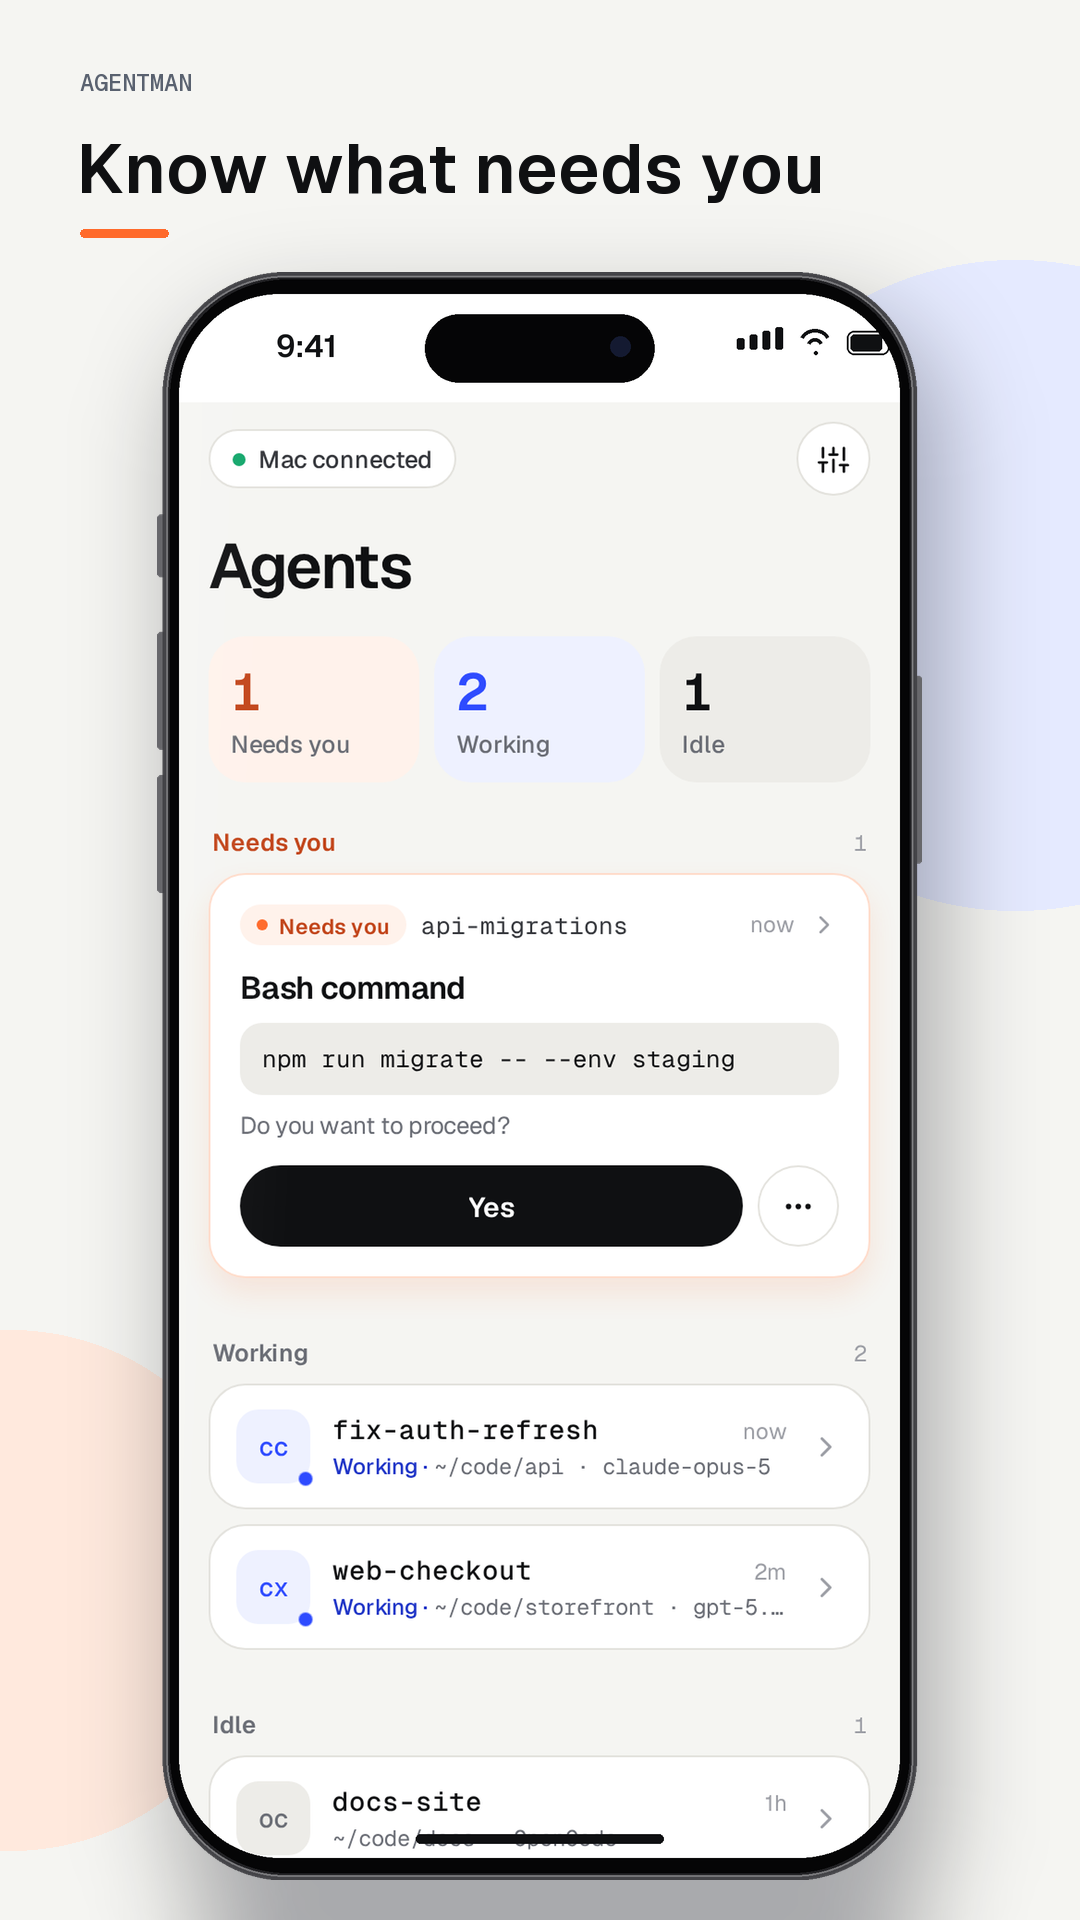
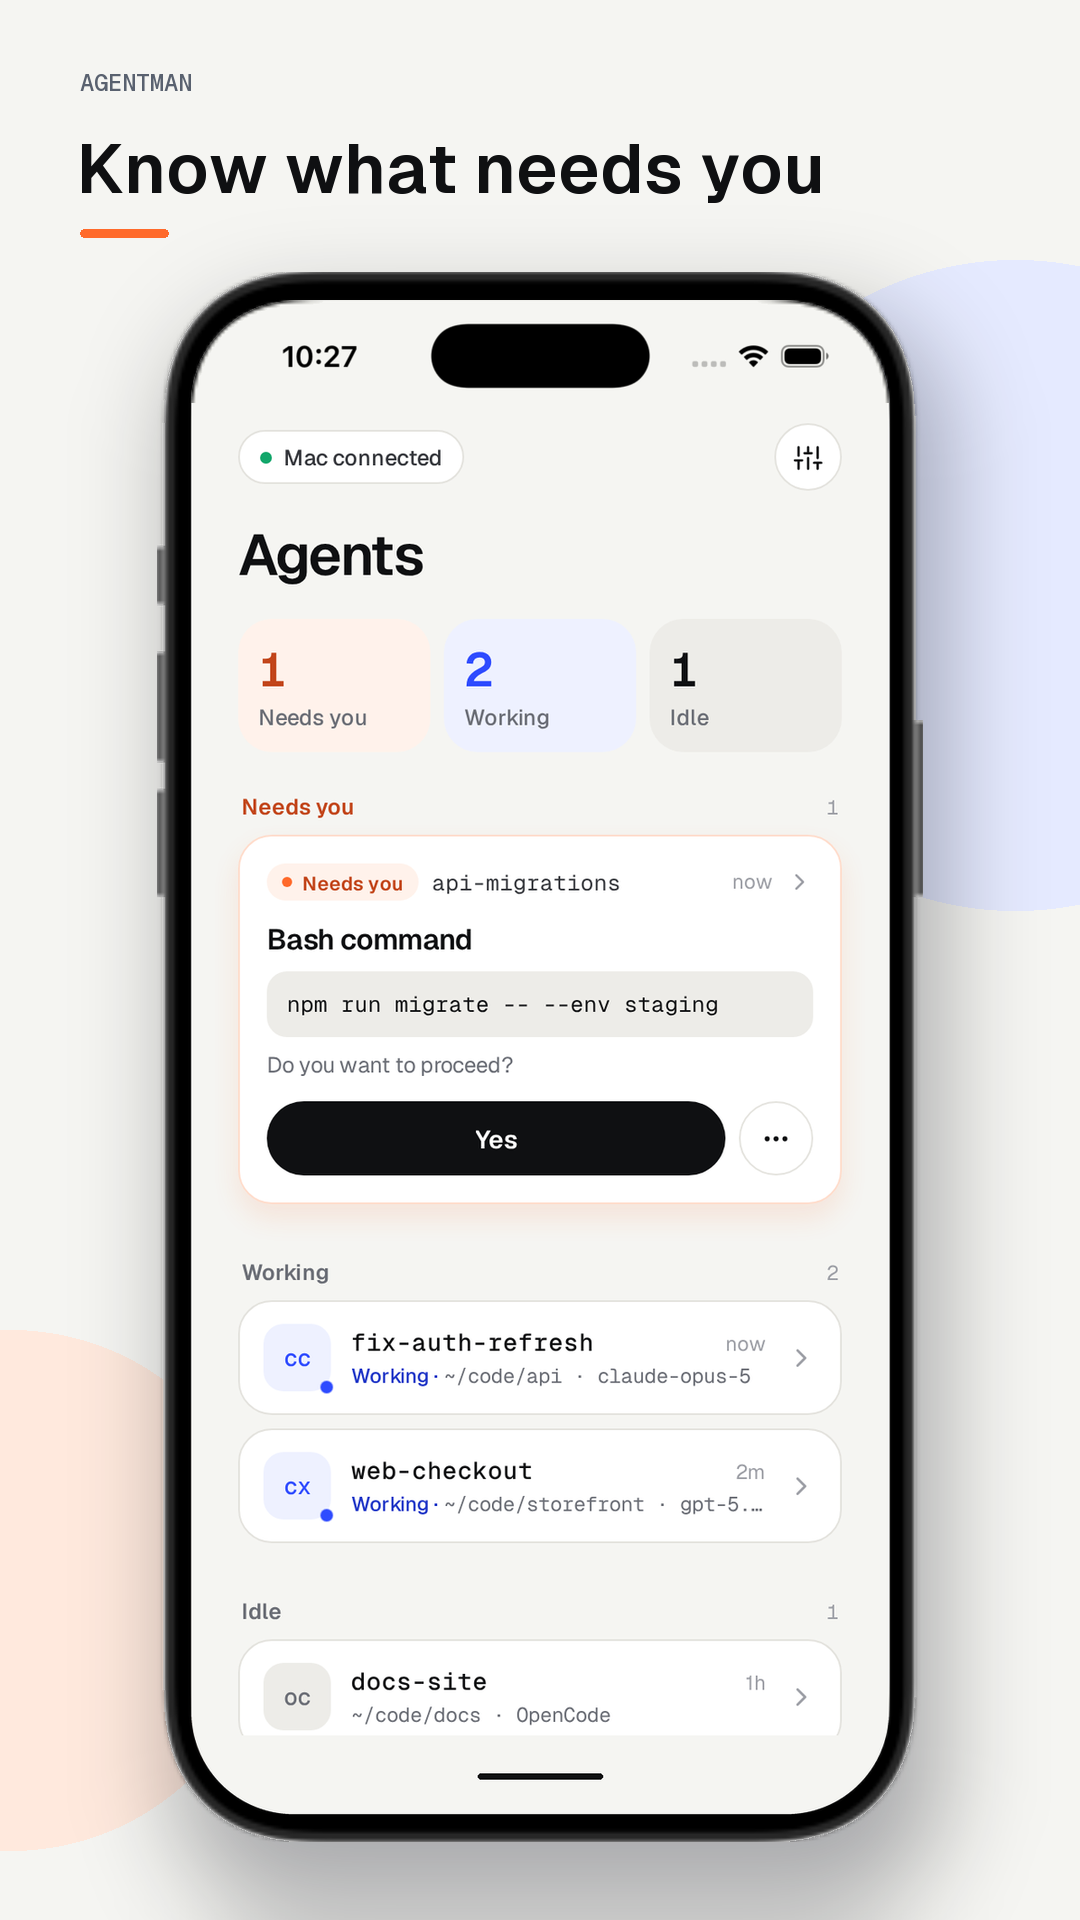
Use captured device frame for Play listing mockups

diff --git a/play-listing/render.py b/play-listing/render.py
@@ -1,19 +1,22 @@
 #!/usr/bin/env python3
-"""Render Play Store graphics using the landing page's titanium phone geometry."""
+"""Render Play Store graphics using the captured Device Hub phone frame."""
 
 from __future__ import annotations
 
 import argparse
 from pathlib import Path
 
-from PIL import Image, ImageDraw, ImageFilter, ImageFont, ImageOps
+from PIL import Image, ImageChops, ImageDraw, ImageFilter, ImageFont, ImageOps
 
 
 ROOT = Path(__file__).resolve().parent.parent
 OUT = Path(__file__).resolve().parent / "assets"
-S = 3  # Draw the 417 x 876 point landing-page device at 3x, then downsample.
-PHONE = (417, 876)
-SCREEN = (12, 12, 393, 852)
+FRAME_CAPTURE = Path(__file__).resolve().parent / "sources/devicehub-pairing.png"
+# Display boundaries measured from the captured iPhone frame, in source pixels.
+DISPLAY = (38, 32, 810, 1707)
+DISPLAY_RADIUS = 113
+STATUS_BOTTOM = 145
+CONTENT_BOTTOM = 1620
 FONT = ROOT / "mobile/node_modules/@expo-google-fonts/geist"
 MONO = ROOT / "mobile/node_modules/@expo-google-fonts/geist-mono"
 INK = "#0F1012"
@@ -27,68 +30,47 @@ def font(size: int, weight: str = "600SemiBold", mono: bool = False) -> ImageFon
     return ImageFont.truetype(family / weight / f"{stem}_{weight}.ttf", size)
 
 
-def rounded_mask(size: tuple[int, int], radius: int) -> Image.Image:
-    mask = Image.new("L", size, 0)
-    ImageDraw.Draw(mask).rounded_rectangle((0, 0, size[0] - 1, size[1] - 1), radius, fill=255)
-    return mask
-
-
-def rect(box: tuple[float, float, float, float]) -> tuple[int, int, int, int]:
-    return tuple(round(value * S) for value in box)  # type: ignore[return-value]
-
-
-def status_bar(screen: Image.Image) -> None:
-    draw = ImageDraw.Draw(screen)
-    draw.text((53 * S, 17 * S), "9:41", font=font(17 * S), fill=INK)
-    draw.rounded_rectangle(rect((134, 11, 259, 48)), radius=19 * S, fill="#050506")
-    draw.ellipse(rect((235, 23, 246, 34)), fill="#141A31")
-    for x, height in ((304, 6), (311, 8), (318, 10), (325, 12)):
-        draw.rounded_rectangle(rect((x, 30 - height, x + 4, 30)), radius=S, fill=INK)
-    draw.arc(rect((338, 19, 355, 34)), 205, 335, fill=INK, width=2 * S)
-    draw.arc(rect((342, 24, 351, 33)), 205, 335, fill=INK, width=2 * S)
-    draw.ellipse(rect((346, 31, 348, 33)), fill=INK)
-    draw.rounded_rectangle(rect((364, 20, 387, 33)), radius=4 * S, outline=INK, width=S)
-    draw.rounded_rectangle(rect((366, 22, 383, 31)), radius=2 * S, fill=INK)
-    draw.rounded_rectangle(rect((387, 24, 390, 29)), radius=S, fill=INK)
-    draw.rounded_rectangle(rect((129, 839, 264, 844)), radius=3 * S, fill=INK)
+def display_mask(size: tuple[int, int]) -> Image.Image:
+    scale = 4
+    mask = Image.new("L", (size[0] * scale, size[1] * scale), 0)
+    ImageDraw.Draw(mask).rounded_rectangle(
+        tuple(value * scale for value in DISPLAY), radius=DISPLAY_RADIUS * scale, fill=255
+    )
+    return mask.resize(size, Image.Resampling.LANCZOS)
 
 
 def phone(screenshot: Path, content_only: bool) -> Image.Image:
-    """Build the site's 417 x 876 phone with any screenshot under the glass."""
-    width, height = (dimension * S for dimension in PHONE)
-    result = Image.new("RGBA", (width, height), (0, 0, 0, 0))
-    draw = ImageDraw.Draw(result)
-
-    # Hardware buttons and layered titanium edge follow site/styles.css.
-    for box in ((0, 132, 5, 166), (0, 196, 5, 260), (0, 274, 5, 338), (412, 220, 417, 322)):
-        draw.rounded_rectangle(rect(box), radius=2 * S, fill="#67676B")
-    draw.rounded_rectangle(rect((3, 0, 414, 876)), radius=67 * S, fill="#444448")
-    draw.rounded_rectangle(rect((5, 2, 412, 874)), radius=65 * S, fill="#222225", outline="#77777A", width=S)
-    draw.rounded_rectangle(rect((7, 4, 410, 872)), radius=64 * S, fill="#050506")
-
-    sx, sy, sw, sh = SCREEN
-    sw *= S
-    sh *= S
-    screen = Image.new("RGB", (sw, sh), "white")
+    """Put a screenshot inside the real bezel, with safe space for system UI."""
+    frame = devicehub_cutout(FRAME_CAPTURE)
     with Image.open(screenshot) as opened:
         source = ImageOps.exif_transpose(opened).convert("RGB")
+    x0, y0, x1, y1 = DISPLAY
+    # Match the screenshot's own page background in the status and safe areas.
+    page_background = source.getpixel((0, 0))
+    display = Image.new("RGB", frame.size, page_background)
     if content_only:
-        content = ImageOps.fit(source, (sw, (852 - 59) * S), Image.Resampling.LANCZOS)
-        screen.paste(content, (0, 59 * S))
-        status_bar(screen)
+        width, height = x1 - x0 - 8, CONTENT_BOTTOM - STATUS_BOTTOM
+        content = ImageOps.contain(source, (width, height), Image.Resampling.LANCZOS)
+        display.paste(content, ((frame.width - content.width) // 2, STATUS_BOTTOM))
+        # Keep the real, correctly positioned island and status icons.
+        status = frame.crop((0, y0, frame.width, STATUS_BOTTOM)).convert("RGB")
+        pixels = status.load()
+        assert pixels is not None
+        for y in range(status.height):
+            for x in range(x0, x1):
+                r, g, b = pixels[x, y]
+                if 239 <= r <= 249 and abs(r - g) <= 2 and 0 <= r - b <= 7:
+                    pixels[x, y] = page_background
+        display.paste(status, (0, y0))
+        ImageDraw.Draw(display).rounded_rectangle((355, 1662, 493, 1668), radius=3, fill=INK)
     else:
-        screen.paste(ImageOps.fit(source, (sw, sh), Image.Resampling.LANCZOS))
-    result.paste(screen, (sx * S, sy * S), rounded_mask((sw, sh), 55 * S))
-
-    # A soft glass highlight, like the landing page's .screen::after.
-    glare = Image.new("RGBA", (sw, sh), (0, 0, 0, 0))
-    overlay = ImageDraw.Draw(glare)
-    for x in range(0, 85 * S, 3 * S):
-        opacity = round(15 * (1 - x / (85 * S)))
-        overlay.line((x, 0, max(0, x - 42 * S), sh), fill=(255, 255, 255, opacity), width=3 * S)
-    glare.putalpha(Image.composite(glare.getchannel("A"), Image.new("L", (sw, sh), 0), rounded_mask((sw, sh), 55 * S)))
-    result.alpha_composite(glare, (sx * S, sy * S))
-    return result
+        content = ImageOps.fit(source, (x1 - x0, y1 - y0), Image.Resampling.LANCZOS)
+        display.paste(content, (x0, y0))
+    mask = display_mask(frame.size)
+    display.putalpha(mask)
+    # Keep the bezel, buttons, and their antialiasing from the real capture.
+    frame.putalpha(ImageChops.subtract(frame.getchannel("A"), mask))
+    return Image.alpha_composite(display, frame)
 
 
 def fit_headline(draw: ImageDraw.ImageDraw, words: str, max_width: int, max_size: int) -> tuple[str, ImageFont.FreeTypeFont]:
@@ -100,6 +82,10 @@ def fit_headline(draw: ImageDraw.ImageDraw, words: str, max_width: int, max_size
 
 
 def phone_asset(screenshot: Path, output: Path, headline: str, content_only: bool) -> None:
+    compose_phone_asset(phone(screenshot, content_only), output, headline)
+
+
+def compose_phone_asset(device: Image.Image, output: Path, headline: str) -> None:
     canvas = Image.new("RGB", (1080, 1920), PAPER)
     draw = ImageDraw.Draw(canvas)
     draw.ellipse((690, 260, 1340, 910), fill="#E5EAFF")
@@ -109,7 +95,6 @@ def phone_asset(screenshot: Path, output: Path, headline: str, content_only: boo
     draw.text((76, 122), title, font=face, fill=INK)
     draw.rounded_rectangle((80, 229, 168, 237), radius=4, fill=ORANGE)
 
-    device = phone(screenshot, content_only)
     device.thumbnail((766, 1608), Image.Resampling.LANCZOS)
     x = (canvas.width - device.width) // 2
     y = 272
@@ -121,6 +106,31 @@ def phone_asset(screenshot: Path, output: Path, headline: str, content_only: boo
     canvas.alpha_composite(device, (x, y))
     output.parent.mkdir(parents=True, exist_ok=True)
     canvas.convert("RGB").save(output, "PNG", optimize=True)
+
+
+def devicehub_cutout(capture: Path) -> Image.Image:
+    """Remove the entire canvas outside a Device Hub phone, preserving its pixels."""
+    with Image.open(capture) as opened:
+        source = ImageOps.exif_transpose(opened).convert("RGB")
+    result = source.convert("RGBA")
+    original = source.load()
+    output = result.load()
+    assert original is not None and output is not None
+    for y in range(source.height):
+        # The dark bezel surrounds the display. Find its outermost point on
+        # this scanline; side-button rows naturally expand to include buttons.
+        bezel = [x for x in range(source.width) if max(original[x, y]) < 190]
+        if not bezel:
+            for x in range(source.width):
+                output[x, y] = (0, 0, 0, 0)
+            continue
+        left, right = bezel[0], bezel[-1]
+        for x in (*range(left), *range(right + 1, source.width)):
+            # The source canvas is white. Recover a soft dark edge from the
+            # antialiased pixels rather than leaving a white fringe.
+            alpha = 255 - min(original[x, y])
+            output[x, y] = (0, 0, 0, alpha)
+    return result
 
 
 def feature_asset(screenshot: Path, output: Path) -> None:
@@ -152,6 +162,11 @@ def build() -> None:
     )
     for source, name, headline in items:
         phone_asset(sources / source, OUT / name, headline, content_only=True)
+    capture = Path(__file__).resolve().parent / "sources/devicehub-pairing.png"
+    if capture.exists():
+        cutout = devicehub_cutout(capture)
+        cutout.save(OUT / "devicehub-pairing-cutout.png", "PNG", optimize=True)
+        compose_phone_asset(cutout, OUT / "04-pairing-devicehub.png", "Connect to your Mac")
     feature_asset(sources / "app-agents.png", OUT / "feature-graphic.png")
     with Image.open(ROOT / "mobile/assets/images/icon.png") as source:
         icon = source.convert("RGBA").resize((512, 512), Image.Resampling.LANCZOS)
@@ -167,11 +182,23 @@ def main() -> None:
     custom.add_argument("output", type=Path)
     custom.add_argument("--headline", required=True)
     custom.add_argument("--content-only", action="store_true", help="Input excludes the status bar")
+    framed = commands.add_parser("devicehub", help="Remove the full Device Hub canvas and use the real phone frame")
+    framed.add_argument("input", type=Path)
+    framed.add_argument("output", type=Path)
+    framed.add_argument("--headline", required=True)
+    cutout = commands.add_parser("cutout", help="Save the real Device Hub phone with a transparent exterior")
+    cutout.add_argument("input", type=Path)
+    cutout.add_argument("output", type=Path)
     args = parser.parse_args()
     if args.command == "build":
         build()
-    else:
+    elif args.command == "phone":
         phone_asset(args.input, args.output, args.headline, args.content_only)
+    elif args.command == "devicehub":
+        compose_phone_asset(devicehub_cutout(args.input), args.output, args.headline)
+    else:
+        args.output.parent.mkdir(parents=True, exist_ok=True)
+        devicehub_cutout(args.input).save(args.output, "PNG", optimize=True)
 
 
 if __name__ == "__main__":

diff --git a/play-listing/README.md b/play-listing/README.md
@@ -2,12 +2,20 @@
 
 Copy the text from `short-description.txt` and `full-description.txt` into **Grow users → Store presence → Main store listing**. Upload the PNG files in `assets/` under Graphics. The YouTube video is optional and omitted here.
 
-The phone images reuse the titanium iPhone frame from the landing page's “Your phone” panel. `render.py` accepts any portrait screenshot and places it inside that frame:
+The default phone images now use the real iPhone frame from `sources/devicehub-pairing.png`. `render.py` accepts any portrait screenshot and places it inside that frame:
 
 ```sh
 python3 play-listing/render.py phone screenshot.png output.png --headline "Review what changed"
 ```
 
-For a screenshot that excludes the system status bar, add `--content-only`; the renderer supplies a status bar and home indicator. The included phone images use the three demo views already prepared for the landing page. Run `python3 play-listing/render.py build` to regenerate the complete asset pack. The script requires Pillow, which is also used by `mobile/scripts/make-icon.py`.
+For a screenshot that excludes the system status bar, add `--content-only`; the renderer retains the real frame's Dynamic Island and status icons, then places the content below them with space for the home indicator. It samples the screenshot's page background for the status and safe areas, so there are no white bands around a grey app screen. The included phone images use the three demo views already prepared for the landing page. Run `python3 play-listing/render.py build` to regenerate the complete asset pack. The script requires Pillow, which is also used by `mobile/scripts/make-icon.py`.
 
 The included views are marketing mock screens, not captures from the Android build. Google asks screenshots to reflect the actual in-app experience. Before publishing, replace the demo images with current app screenshots using the same renderer. The first three drafts show the agents list, a live session, and a permission question.
+
+For a Device Hub capture that includes the real phone bezel and actual app content, use the `devicehub` command. It removes the **entire exterior canvas** around the phone, including the thin strips along the sides and bottom, while leaving the phone and app pixels untouched:
+
+```bash
+python3 play-listing/render.py devicehub capture.png listing.png --headline "Connect to your Mac"
+```
+
+Use `python3 play-listing/render.py cutout capture.png phone.png` when you want a transparent phone PNG without the listing background. `assets/04-pairing-devicehub.png` and `assets/devicehub-pairing-cutout.png` are examples made from `sources/devicehub-pairing.png`. Device Hub's own Screenshot button captures only display pixels; take a macOS area screenshot around the whole phone to include its bezel. These examples show an iPhone, so use an Android emulator or device capture for Android-specific store screenshots.
